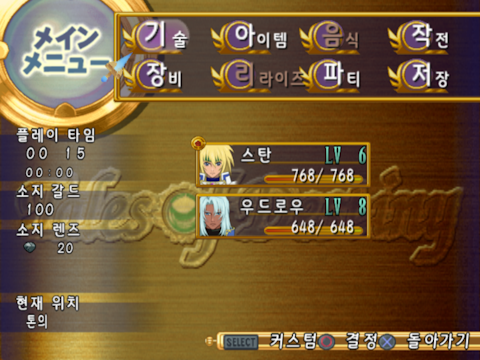
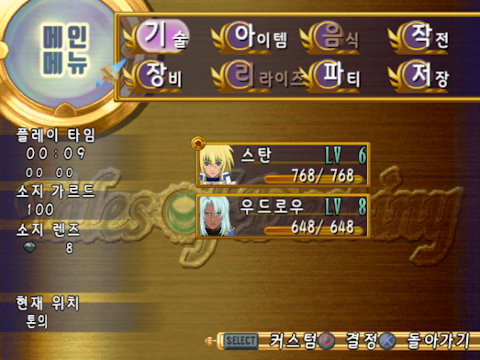
Update README.md and screenshots

diff --git a/README.md b/README.md
@@ -6,7 +6,7 @@
 
 매 패치의 변경점을 배포하는 이유는 공개 검수를 통해 더 빠른 완성을 목표로 하기 때문입니다.
 
-패치를 플레이하면서 눈에 보이는 문장의 오류나 버그를 발견하면 [제보](#제보)하거나 [기여](#기여)해주세요.
+패치를 플레이하면서 눈에 보이는 문장의 오류나 버그를 발견하면 [제보](#제보)하거나 [기여](#패치-제작에-참여하기)해주세요.
 
 ## 진행 상황
 
@@ -49,7 +49,9 @@
 - UI 메뉴
   - 추출: SLPS 99%, PAK 0%
   - 검수: 0%
-- 그래픽: 0%
+- 그래픽: ?? (불확실)
+  - 메뉴 UI 글자 그래픽: 100%
+  - 도감/지도 UI 글자 그래픽: 100%
 
 ## 배포 주기 & 다운로드
 
@@ -57,7 +59,7 @@
 
 다운로드는 [Releases 페이지](https://github.com/ToD-DC-Kor/kor-patch/releases)에서 확인. XDelta를 이용하여 원본 ISO에 패치.
 
-## 기여
+## 패치 제작에 참여하기
 
 모든 번역 파일을 공개하고 있기 때문에, GitHub Issue나 Pull Request를 통해 기여할 수 있습니다. [GitHub Pull Request 도움말](https://docs.github.com/ko/pull-requests/collaborating-with-pull-requests/proposing-changes-to-your-work-with-pull-requests/creating-a-pull-request), [GitHub Desktop 설치 도움말](https://docs.github.com/ko/desktop/installing-and-authenticating-to-github-desktop/setting-up-github-desktop).
 
@@ -94,6 +96,13 @@
   - Font image creator
   - Memory address converter
   - Hangul(Korean alphabet) font mapper
+
+## Contributors
+
+- [@kexplo](https://github.com/kexplo/), the maintainer of this translation project.
+  - all the work including reverse engineering, translation, programming, etc.
+- 퍼스트버튼, support for editing graphic resources
+  - editing the font images, UI graphics.
 
 ## Credits
 
